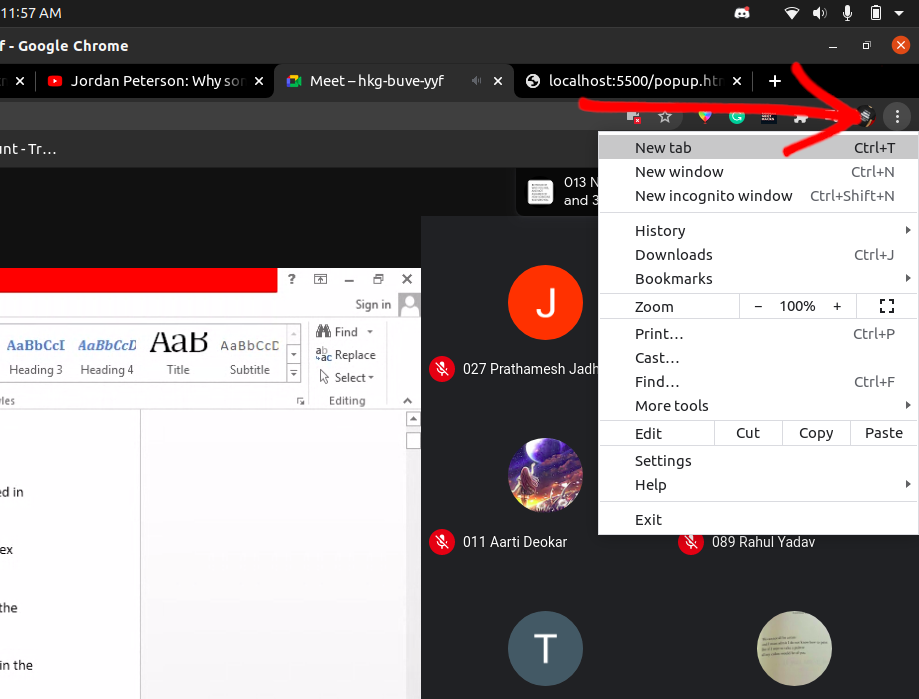
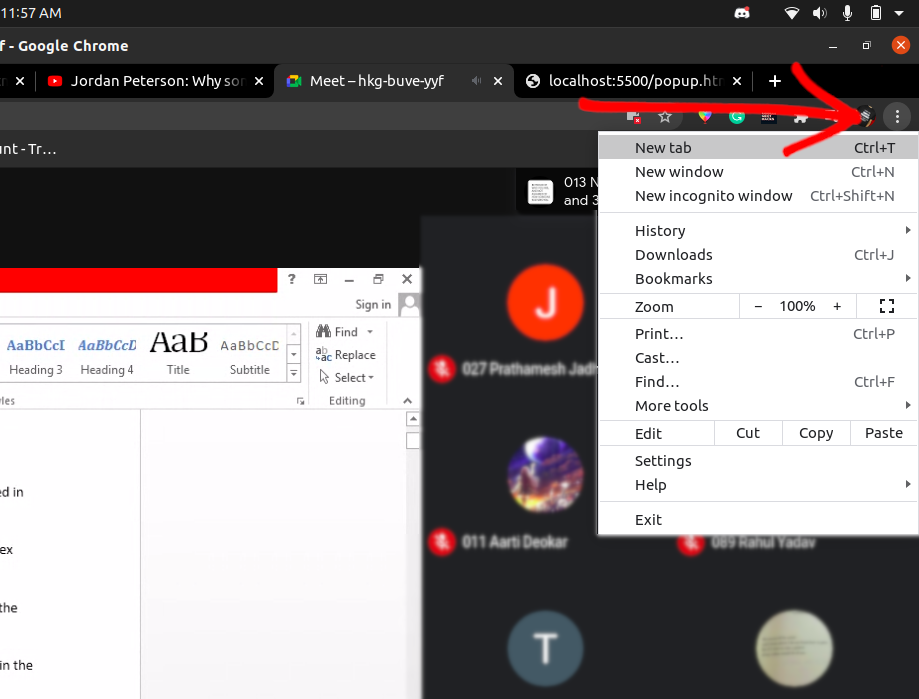
Hide Names on image

Changed region(s): [[0.457, 0.3605, 1.0, 1.0], [0.8226, 0.8712, 0.914, 0.9914], [0.5789, 0.9013, 0.6094, 0.9614]]

diff --git a/popup.html b/popup.html
@@ -18,7 +18,7 @@
             Enter the number of participants remaining, below which you want to exit the meeting.
         </div>
         <div class="data">
-            <input type="number" name="" id="requiredParticipantToExit" min="1" value="2">
+            <input type="number" name="" id="requiredParticipantToExit" min="1" value="2" autofocus="autofocus">
             <input type="button" value="Confirm" id="confirm">
         </div>
     </div>

diff --git a/style.css b/style.css
@@ -7,6 +7,7 @@ body {
     width: 500px;
     margin: 0;
     border: 1px solid #8C00F8;
+    box-sizing: border-box;
 }
 
 .title {
@@ -56,7 +57,7 @@ body {
     color: #fff;
     outline: none;
     background-color: #8C00F8;
-    border: 1px solid #8C00F8;
+    border: 2px solid #8C00F8;
     transition: all 0.1s ease;
     cursor: pointer;
 }
